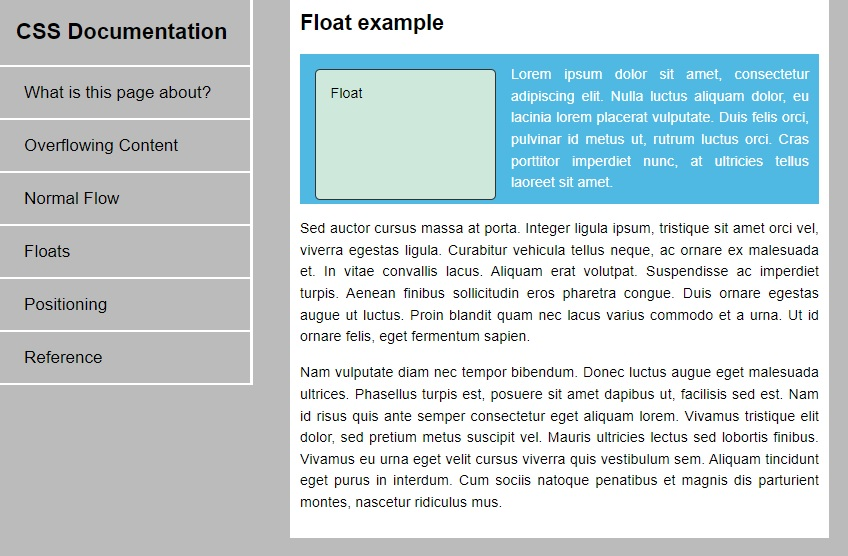
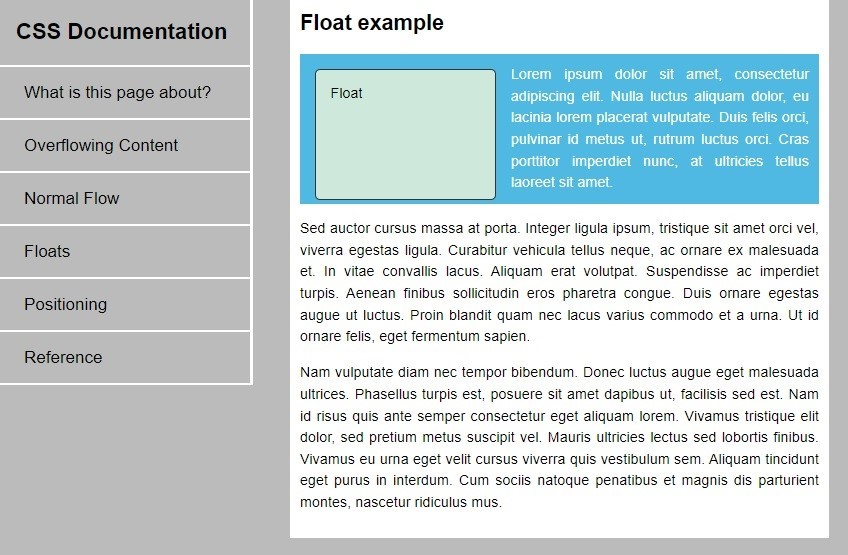
Image files resized
Images were presented in different heights before. To solve this problem, the image files resized using Paint 3D so that they have same width and height.

diff --git a/styles.css b/styles.css
@@ -128,6 +128,8 @@ a {
 
 .samples {
     width: 100%;
+    /*height: 100%;
+    object-fit: contain;*/
 
 } 
 
